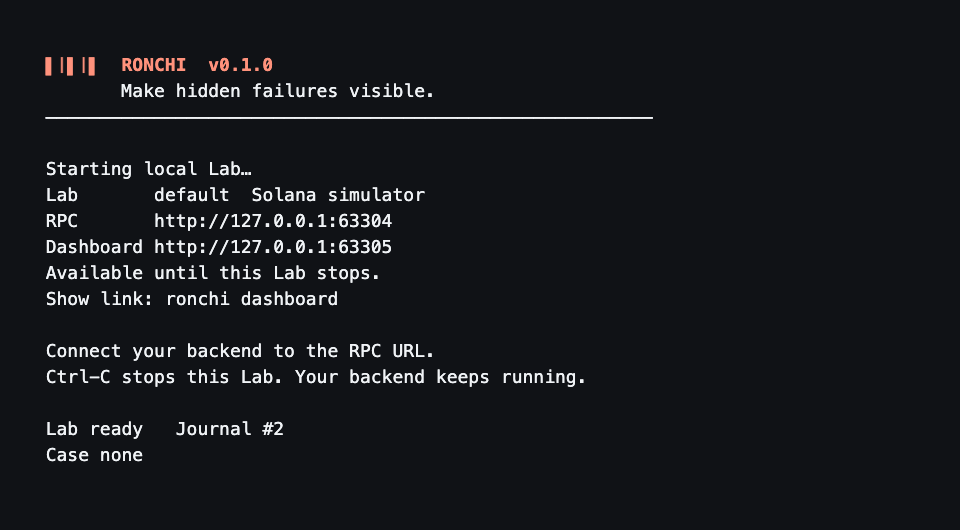
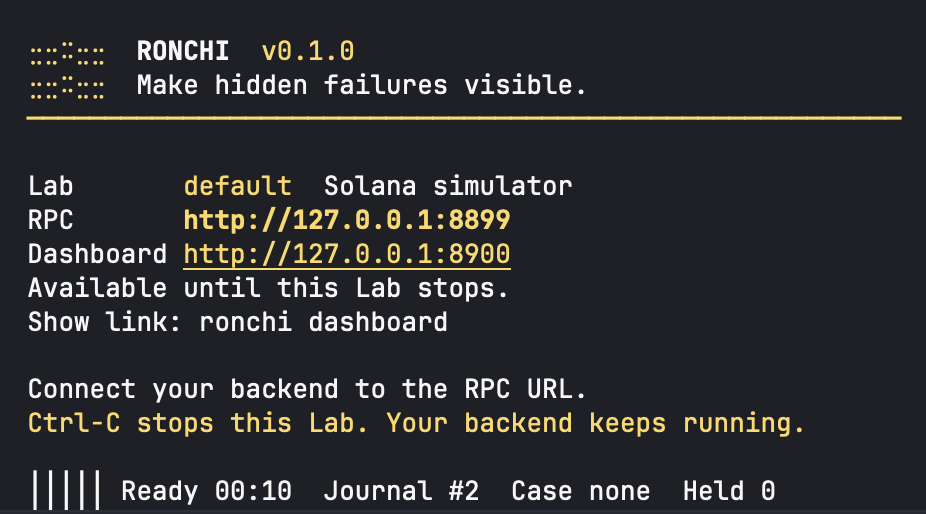
docs: refresh README with yellow branding and supplied screenshots

diff --git a/README.md b/README.md
@@ -19,9 +19,9 @@ Ronchi makes that behavior visible. Start a local Lab, point your backend at its
 
 **Open source · Local-first · No account or cloud required · No application SDK required**
 
-![Ronchi Workspace with an active response-loss Case, related RPC traffic, one Observation and its expanded transaction path](docs/assets/readme/workspace.png)
+![Ronchi Workspace showing retained Surfpool traffic and a selected response-loss Observation with its expanded RPC path](docs/assets/readme/workspace.png)
 
-*Real Simulator session: one submission, a withheld response and two status checks. The last status reply reports simulated `finalized` with `err: null`.*
+*Retained Surfpool session: one selected submission, a withheld response, two status checks and one transaction lookup. Both status replies report `finalized` with `err: null`. Screenshots show the current source build.*
 
 ## One Lab. Two ways to investigate.
 
@@ -38,19 +38,20 @@ Both interfaces read the **same Lab Journal**. The dashboard updates over a live
 With `tx-response-lost`, Ronchi withholds the response after acceptance. Your backend sees an ambiguous submission. Its subsequent RPC calls reveal how it reacts.
 
 <p align="center">
-  <img src="docs/assets/readme/observation.png" width="640" alt="Observation path: Simulator accepted the transaction; Ronchi withheld the response; the request ended without a response; two later status checks returned null and then simulated finalized with err null.">
+  <img src="docs/assets/readme/observation.png" width="640" alt="Observation path: Surfpool returned a signature; Ronchi withheld the response; two status checks returned finalized with err null; a transaction lookup returned the transaction; the original request ended without a response.">
 </p>
 
 In this captured history:
 
-- The Simulator accepted **one transaction**.
-- Ronchi withheld its submission response, with a **20-second limit**. The client disconnected earlier.
-- The client made **two status checks** for the same signature. The replies were `null`, then simulated `finalized` with `err: null`.
+- Surfpool returned a signature for **one submission**.
+- Ronchi withheld the submission response for **20 seconds**. The original request ended without a response.
+- The application made **two status checks** for the same signature. Both replies reported `finalized` with `err: null`.
+- The application requested the transaction once. That RPC reply returned the transaction with `err: null`.
 - **No repeat submission** of that signature appeared in the selected history.
 
 Expand **Technical details** for identifiers, supporting events and retained RPC payloads. Each path step keeps its evidence links.
 
-A returned status establishes an RPC observation. Simulated finality does not prove a transfer, and neither mode proves that the backend completed its business operation.
+These replies establish observed RPC behavior. They do not prove that the backend completed its business operation. The default Simulator does not execute transfers.
 
 ## Built for coding agents
 
@@ -153,7 +154,7 @@ ronchi up
 
 ![Actual Ronchi foreground terminal output showing the Lab, local RPC address, dashboard address and Ctrl-C instructions](docs/assets/readme/terminal.png)
 
-*Actual foreground output captured through a PTY with `--no-animation` and automatically assigned ports. Interactive startup animates by default.*
+*Foreground Simulator Lab with local RPC and dashboard addresses. Ctrl-C stops the Lab. Interactive startup animates by default.*
 
 1. Open the dashboard link printed in the terminal.
 2. Set your backend's Solana RPC URL to Ronchi's printed RPC URL.

diff --git a/tasks/todo.md b/tasks/todo.md
@@ -788,4 +788,12 @@ These are two observed CI runs, not a fixed latency guarantee. Cached compilatio
 
 **Published-asset verification:** All eight release files were downloaded through authenticated GitHub access. All three archive SHA-256 files and version/target/Surfpool metadata matched; the published installer matched its maintained source. The downloaded macOS ARM archive passed actual installation, embedded dashboard/Simulator/two Surfpool projects, retained Journals, tamper rejection, reinstall and live-update checks. The fixture ignored an unrelated system Surfpool. All verification installations and Labs were isolated; no original user Lab/backend or global installation was changed.
 
-**Remaining:** GitHub still reports the repository as private. An asynchronous question asks permission to make the entire repository/history public. No visibility change is inferred from a missing answer. Anonymous curl installation remains unverified, so README retains an accurate public-installation notice. After explicit permission, enable public access, run the real anonymous curl installation in an isolated prefix, update release notes/README and close 41d. Temporary logs, downloads, diagnostic scripts and reports remain outside the repository.
+**Remaining:** GitHub still reports the repository as private. The user explicitly deferred making the repository public. Anonymous curl installation remains unverified, so README retains an accurate public-installation notice. After explicit permission, enable public access, run the real anonymous curl installation in an isolated prefix, update release notes/README and close 41d. Temporary logs, downloads, diagnostic scripts and reports remain outside the repository.
+
+### 42. Yellow identity and README media
+
+- [x] **42a:** Replace the dashboard coral accent/backgrounds with centralized yellow tokens and align the compact terminal mark/runtime text.
+- [x] **42b:** Verify the affected UI/PTY presentation, rebuild the executable and commit/push the palette and terminal changes.
+- [x] **42c:** Replace README images with the three supplied originals, align captions/header and commit/push the complete README refresh.
+
+Palette/terminal changes are pushed in `722b8a7`. Frontend build and 64 tests passed; five real PTY tests verify the compact four-band mark, requested label/value colors, narrow layout and terminal opt-outs. Rust fmt, Clippy and the local release build passed. The user supplied the original Desktop screenshots. All three PNGs were copied byte-for-byte into the existing README media paths: terminal 926×514, Observation 1248×1282 and Workspace 3024×1642. Source/destination SHA-256 values matched. README captions now describe the shown retained Surfpool history; the header uses yellow. Local links/anchors, SVG XML and diff whitespace passed. README media was not regenerated. Temporary previews and research files are not committed. Repository visibility and the existing release/tag remain unchanged.

diff --git a/tasks/implementation-progress.md b/tasks/implementation-progress.md
@@ -21,11 +21,16 @@ The requested CI caches are implemented and exercised. Observed cold/warm job ti
 
 All eight published files were downloaded with GitHub authentication. All three archive SHA-256 values and metadata were verified. The actual downloaded ARM archive passed installation, embedded dashboard, private Surfpool, retained Journal, tamper, reinstall and live-update checks. Temporary installations and Labs were cleaned; original user Labs/backends were not touched.
 
-Anonymous public curl verification remains open because the repository is private. The user has been asked asynchronously to authorize making the whole repository/history public; no answer has arrived. Do not change visibility without that authorization. README accurately marks public downloads as pending. After permission, verify the actual public installer in an isolated prefix, apply the prepared release notes, remove the warning, close task 41d and push final docs.
+Anonymous public curl verification remains open because the repository is private. The user explicitly deferred making the repository public. Do not change visibility without that authorization. README accurately marks public downloads as pending. If the user later authorizes public access, verify the actual public installer in an isolated prefix, apply the prepared release notes, remove the warning, close task 41d and push final docs.
 
 MIT and bundled pinned Surfpool are implemented by [task 40](todo.md#40-curl-installation-and-bundled-surfpool) and ADR-0020. Runtime data remains project-local. Homebrew remains deferred.
 
 Earlier documentation/README work is recorded in [tasks 38–39](todo.md#38-documentation-organization).
+
+## Yellow palette and README refresh
+
+The user selected a yellow signal palette. Dashboard accent is `#f3d65b`; related backgrounds are centralized in its CSS tokens. The terminal mark uses a 10×8 Braille dot grid to retain four raised bands in 5×2 text cells. Runtime details use plain labels/hints with the Lab name and endpoint URLs in the mark's yellow; other secondary hints retain yellow. The local release executable is rebuilt. Palette and terminal changes are committed and pushed as `722b8a7`. Frontend build/64 tests and the updated terminal PTY suite (5), fmt and Clippy passed at their respective change scopes.
+README now uses the three original screenshots supplied by the user from the Desktop: foreground Simulator terminal, retained Surfpool Workspace and its Observation detail. The PNGs were copied byte-for-byte without redrawing, cropping or recoloring. The SVG header uses the yellow accent. Captions describe one submission, twenty-second withholding, two finalized status replies and one transaction lookup; no application business outcome is inferred. The existing `v0.1.0` release and private repository visibility remain unchanged.
 
 ## Remaining validation
 

diff --git a/tasks/plan.md b/tasks/plan.md
@@ -1,20 +1,7 @@
-# Finish public installation verification
+# Current work
 
-Task 41 in [todo.md](todo.md#41-first-native-release) is the only completion checklist.
-The user authorized pushing main, native CI fixes, the verified `v0.1.0` tag/release, public curl verification and final docs. Homebrew remains deferred.
+The yellow palette, terminal presentation and README refresh are complete at [task 42](todo.md#42-yellow-identity-and-readme-media). README uses the user's three original screenshots. Current implementation and verification evidence are in [implementation-progress.md](implementation-progress.md).
 
-Manual validation `42404486999` and tagged pipeline `42406451668` passed on all three native targets at `0ca02a0`. The release exists; all three published archive checksums and an actual downloaded ARM installation/live-update flow passed. Requested CI caches have been exercised; timings and retained checks are in task 41.
+No next implementation task is selected. Continue from the user's next request.
 
-## Remaining action
-
-GitHub reports the repository as private. An asynchronous question asks the user to authorize making the entire repository/history public. Wait for the answer before changing visibility; elapsed time is not permission.
-
-After explicit permission:
-
-1. Make `kirillermakovichh/ronchi` public using the existing authorized GitHub CLI session.
-2. Verify all published checksums and run the anonymous public curl installer in an isolated prefix. Check installed Simulator, embedded dashboard, private Surfpool and same-version reinstall.
-3. Apply the prepared release notes, remove README's public-installation notice, close task 41d and push final documentation.
-
-Temporary prepared helpers are `/private/tmp/ronchi-public-release-check.py`, `/private/tmp/ronchi-verify-release-assets.py` and `/private/tmp/ronchi-v0.1.0-notes.md`. Inspect them before use. They are outside tracked files and must not be committed.
-
-Do not print or persist GitHub tokens. Do not change user backends/Labs, overwrite the existing tag/release, or claim anonymous installation from an authenticated asset download. See [implementation-progress.md](implementation-progress.md) for current state.
+The repository remains private. Anonymous public installer verification in task 41d is explicitly deferred by the user. Do not change visibility or overwrite the existing `v0.1.0` tag/release without a new instruction.
